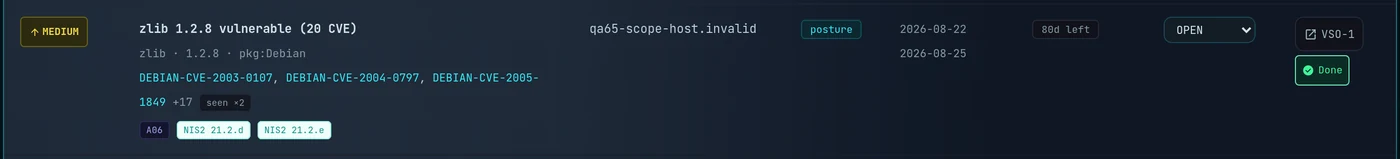
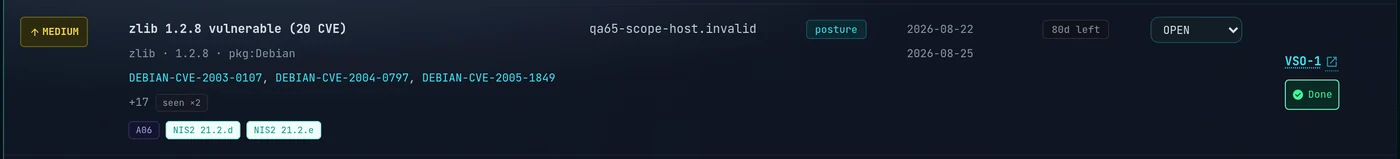
FIX: the ticket column was readable but not usable
Four things the column got wrong once it started carrying state.

A filter. With 164 findings and two tickets, "which ones did we hand
over, and what happened to them" was a scroll. ALL TICKETS joins the
other four dropdowns and separates three questions that look like one:
whether a ticket exists at all, where it got to, and whether anyone has
read it back yet. The last two are not the same thing — "unknown" is the
tracker answering with a state we cannot place, "not read yet" is nobody
having pressed refresh since the ticket was opened — and collapsing them
would hide exactly the rows that need attention. The pairing worth
looking for, "with ticket · done" against a finding still open, is now
two clicks.

The refresh button moved out of the filter row. It sat among the
dropdowns looking like one more control, in the pale outline style of
things that only narrow a view, while it is the one control on that bar
that writes to the database and calls an external service. It now has
its own row under the filters, behind a divider, in the page's primary
button style, with a line saying what it re-reads.

The state label is vertically centred in its cell. The row is as tall as
the findings column needs — title, CVEs, compliance tags — and the ticket
block was pinned to the top of it, reading as though it belonged to the
first line rather than to the finding.

The reference is a link and now looks like one. It was a bordered chip in
[…]

diff --git a/templates/findings.html b/templates/findings.html
@@ -9,7 +9,7 @@
   <link rel="icon" type="image/svg+xml" href="/static/favicon.svg" />
   <!-- Self-hosted fonts (Inter, JetBrains Mono, Material Symbols) -->
   <link href="/static/vendor/fonts/fonts.css" rel="stylesheet" />
-  <link rel="stylesheet" href="/static/vendor/tailwind.css?v=49" />
+  <link rel="stylesheet" href="/static/vendor/tailwind.css?v=50" />
   <style>
     .material-symbols-outlined { font-variation-settings: 'FILL' 1, 'wght' 400, 'GRAD' 0, 'opsz' 24; }
     ::-webkit-scrollbar { width: 6px; height: 6px; }
@@ -24,7 +24,7 @@
     .shader-bg { position: fixed; inset: 0; z-index: -1; width: 100%; height: 100%; background: #ffffff; }
     body { min-height: max(884px, 100dvh); }
   </style>
-  <script src="/static/i18n.js?v=50"></script>
+  <script src="/static/i18n.js?v=51"></script>
 </head>
 
 <body class="bg-white text-on-background font-body-md text-body-md relative antialiased overflow-x-hidden">
@@ -220,21 +220,36 @@
             <option value="21.2.i">21.2.i — Access control &amp; asset mgmt</option>
             <option value="21.2.j">21.2.j — MFA &amp; secured comms</option>
           </select>
+          <select id="fTicket"
+            class="font-code-sm text-[12px] text-slate-700 bg-white border border-slate-200 rounded-lg px-3 py-2 focus:outline-none focus:ring-1 focus:ring-cyan-300">
+            <option value="" data-i18n="find.f_ticket">ALL TICKETS</option>
+            <option value="none" data-i18n="find.f_ticket_none">NO TICKET</option>
+            <option value="any" data-i18n="find.f_ticket_any">WITH TICKET</option>
+            <option value="todo" data-i18n="find.f_ticket_todo">TICKET · TO DO</option>
+            <option value="in_progress" data-i18n="find.f_ticket_doing">TICKET · IN PROGRESS</option>
+            <option value="done" data-i18n="find.f_ticket_done">TICKET · DONE</option>
+            <option value="unknown" data-i18n="find.f_ticket_unknown">TICKET · UNKNOWN</option>
+            <option value="unread" data-i18n="find.f_ticket_unread">TICKET · NOT READ YET</option>
+          </select>
           <div class="relative flex-1 min-w-[220px] max-w-md">
             <span class="material-symbols-outlined absolute left-3 top-1/2 -translate-y-1/2 text-slate-500 text-base">search</span>
             <input id="fSearch" type="text" data-i18n-ph="find.search_ph" placeholder="Search package, CVE, asset…"
               class="w-full font-code-sm text-[12px] text-slate-700 bg-white border border-slate-200 rounded-lg pl-9 pr-3 py-2 focus:outline-none focus:ring-1 focus:ring-cyan-300" />
           </div>
-          <button id="tkRefreshBtn" type="button"
-            class="ml-auto px-3 py-2 rounded-lg border border-slate-200 bg-white text-slate-600 hover:border-cyan-400 hover:text-cyan-700 font-label-caps text-[10px] inline-flex items-center gap-1.5 transition-colors disabled:opacity-50 disabled:cursor-not-allowed"
-            title="">
-            <span id="tkRefreshIcon" class="material-symbols-outlined text-[15px]">sync</span>
-            <span data-i18n="find.tk_refresh">REFRESH TICKET STATUS</span>
-          </button>
-          <span id="tkRefreshMsg" class="font-code-sm text-[11px] text-slate-500"></span>
-          <span id="rowCount" class="font-code-sm text-[11px] text-slate-500 ml-3"></span>
+          <span id="rowCount" class="font-code-sm text-[11px] text-slate-500 ml-auto"></span>
           <!-- Chip filtri attivi (rimovibili) -->
           <div id="activeChips" class="w-full flex flex-wrap items-center gap-2 empty:hidden"></div>
+          <!-- Azione sulla colonna TICKET: sta sotto i filtri perche' non
+               filtra nulla — riscrive dati — e va distinta da essi. -->
+          <div class="w-full flex flex-wrap items-center gap-3 pt-2 border-t border-slate-200/60">
+            <button id="tkRefreshBtn" type="button"
+              class="bg-slate-900 text-white hover:bg-slate-800 px-5 py-2.5 rounded-lg font-label-caps text-label-caps transition-all flex items-center gap-2 shadow-lg shadow-slate-900/10 disabled:opacity-40 disabled:cursor-not-allowed">
+              <span id="tkRefreshIcon" class="material-symbols-outlined text-sm text-cyan-400">sync</span>
+              <span data-i18n="find.tk_refresh">REFRESH TICKET STATUS</span>
+            </button>
+            <span id="tkRefreshMsg" class="font-code-sm text-[12px] text-slate-500"></span>
+            <span class="font-code-sm text-[11px] text-slate-400 ml-auto" data-i18n="find.tk_hint">Re-reads every linked ticket from GitHub / Jira</span>
+          </div>
         </section>
 
         <!-- Table -->
@@ -333,21 +348,27 @@
       function ticketStatusLabel(r) {
         if (!r.ticket_status && !r.ticket_state) {
           // Mai riletto: dirlo, invece di lasciare la cella muta come prima.
-          return `<div class="mt-1 text-[10px] text-slate-400 font-code-sm">${esc(tr('find.tk_never'))}</div>`;
+          return `<span class="text-[10px] text-slate-400 font-code-sm">${esc(tr('find.tk_never'))}</span>`;
         }
         const st = r.ticket_state || 'unknown';
         const when = r.ticket_checked_at
           ? ` title="${esc(tr('find.tk_checked', { t: new Date(r.ticket_checked_at).toLocaleString() }))}"` : '';
-        return `<div class="mt-1"${when}><span class="px-1.5 py-0.5 rounded border ${TK_STATE_STYLE[st] || TK_STATE_STYLE.unknown} text-[10px] font-code-sm inline-flex items-center gap-1">
-          <span class="material-symbols-outlined text-[12px]">${TK_STATE_ICON[st] || TK_STATE_ICON.unknown}</span>${esc(r.ticket_status || tr('find.tk_state_' + st))}</span></div>`;
+        return `<span class="px-1.5 py-0.5 rounded border ${TK_STATE_STYLE[st] || TK_STATE_STYLE.unknown} text-[10px] font-code-sm inline-flex items-center gap-1"${when}>
+          <span class="material-symbols-outlined text-[12px]">${TK_STATE_ICON[st] || TK_STATE_ICON.unknown}</span>${esc(r.ticket_status || tr('find.tk_state_' + st))}</span>`;
       }
 
       function ticketCell(r) {
         if (r.ticket_url)
-          return `<a href="${esc(r.ticket_url)}" target="_blank" rel="noopener"
-            class="px-2 py-1 rounded-lg border border-slate-200 bg-white text-slate-600 hover:border-cyan-400 hover:text-cyan-700 text-[11px] font-code-sm inline-flex items-center gap-1">
-            <span class="material-symbols-outlined text-[13px]">open_in_new</span>${esc(r.ticket_ref || 'ticket')}</a>`
-            + ticketStatusLabel(r);
+          // Il riferimento e' un link e deve sembrarlo: colore d'accento,
+          // sottolineatura, icona di uscita. Il chip bordato di prima si
+          // leggeva come un'etichetta, e nessuno prova a cliccare un'etichetta.
+          return `<div class="flex flex-col items-start gap-1.5 justify-center min-h-[3.25rem]">
+            <a href="${esc(r.ticket_url)}" target="_blank" rel="noopener"
+              title="${esc(tr('find.tk_open', { ref: r.ticket_ref || 'ticket' }))}"
+              class="text-cyan-700 hover:text-cyan-900 underline decoration-cyan-400 decoration-dotted underline-offset-2 hover:decoration-solid text-[12px] font-code-sm font-semibold inline-flex items-center gap-1 group">
+              ${esc(r.ticket_ref || 'ticket')}<span class="material-symbols-outlined text-[13px] opacity-60 group-hover:opacity-100">open_in_new</span></a>
+            ${ticketStatusLabel(r)}
+          </div>`;
         return `<button data-fid="${r.id}" class="ticketBtn px-2 py-1 rounded-lg border border-slate-200 bg-white hover:border-cyan-400 text-slate-500 hover:text-cyan-600 text-[11px] font-label-caps inline-flex items-center gap-1"
           title="${esc(tr('find.ticket_create'))}"><span class="material-symbols-outlined text-[13px]">add</span>${esc(tr('find.ticket_btn'))}</button>`;
       }
@@ -367,11 +388,14 @@
           ['fSev', tr('find.f_sev_chip') || 'Severity'],
           ['fSource', tr('find.f_source_chip') || 'Source'],
           ['fNis2', 'NIS2'],
+          ['fTicket', tr('find.f_ticket_chip') || 'Ticket'],
           ['fSearch', tr('find.f_search_chip') || 'Search'],
         ].filter(([id]) => ($(id).value || '').trim() !== '');
         wrap.innerHTML = active.map(([id, label]) => {
           const el = $(id);
-          const val = id === 'fNis2' ? (el.options[el.selectedIndex]?.value || el.value) : el.value;
+          const val = (id === 'fNis2' || id === 'fTicket')
+            ? (el.options[el.selectedIndex]?.textContent || el.value).trim()
+            : el.value;
           return `<span class="inline-flex items-center gap-1 pl-2.5 pr-1 py-1 rounded-full bg-cyan-50 border border-cyan-200 text-cyan-700 font-code-sm text-[11px]">`
             + `<span class="font-label-caps text-[9px] tracking-wider text-cyan-500">${esc(label)}</span>`
             + `<span>${esc(val)}</span>`
@@ -386,14 +410,30 @@
         }));
         const clearAll = $('clearAllChips');
         if (clearAll) clearAll.addEventListener('click', () => {
-          ['fStatus', 'fSev', 'fSource', 'fNis2', 'fSearch'].forEach((id) => { $(id).value = ''; });
+          ['fStatus', 'fSev', 'fSource', 'fNis2', 'fTicket', 'fSearch'].forEach((id) => { $(id).value = ''; });
           render();
         });
+      }
+
+      // Il filtro ticket lavora su tre domande diverse, non su un solo campo:
+      // se un ticket esista, a che punto sia, e se sia mai stato riletto.
+      // 'unread' e' distinto da 'unknown': il primo vuol dire che nessuno ha
+      // ancora premuto AGGIORNA, il secondo che il tracker ha risposto con
+      // uno stato che non sappiamo collocare.
+      function ticketMatch(r, f) {
+        if (!f) return true;
+        const has = !!(r.ticket_ref || r.ticket_url);
+        if (f === 'none') return !has;
+        if (f === 'any') return has;
+        if (!has) return false;
+        if (f === 'unread') return !r.ticket_state;
+        return (r.ticket_state || '') === f;
       }
 
       function render() {
         const st = $('fStatus').value, sev = $('fSev').value,
           src = $('fSource').value, nis2 = $('fNis2').value,
+          tk = $('fTicket').value,
           q = $('fSearch').value.trim().toLowerCase();
         renderChips();
         const rows = ALL.filter((r) =>
@@ -401,6 +441,7 @@
           (!sev || (r.severity || '').toUpperCase() === sev) &&
           (!src || (r.source || '').includes(src)) &&
           (!nis2 || ((r.compliance || {}).nis2 || []).some((n) => n.startsWith(nis2 + ' '))) &&
+          ticketMatch(r, tk) &&
           (!q || JSON.stringify(r).toLowerCase().includes(q)));
         $('rowCount').textContent = rows.length + ' / ' + ALL.length;
         $('emptyMsg').classList.toggle('hidden', rows.length > 0);
@@ -433,7 +474,7 @@
             <td class="px-4 py-3 whitespace-nowrap text-[11px] text-slate-500" data-label="${esc(tr('find.th_seen'))}">${fmtDate(r.first_seen)}<br/>${fmtDate(r.last_seen)}</td>
             <td class="px-4 py-3 whitespace-nowrap" data-label="${esc(tr('find.th_sla'))}">${slaBadge(r)}</td>
             <td class="px-4 py-3 whitespace-nowrap" data-label="${esc(tr('find.th_status'))}">${statusSelect(r)}</td>
-            <td class="px-4 py-3 whitespace-nowrap" data-label="${esc(tr('find.th_ticket'))}">${ticketCell(r)}</td>
+            <td class="px-4 py-3 whitespace-nowrap align-middle" data-label="${esc(tr('find.th_ticket'))}">${ticketCell(r)}</td>
           </tr>`;
         }).join('');
         document.querySelectorAll('.ticketBtn').forEach((btn) => {
@@ -622,7 +663,7 @@
         }
       });
 
-      ['fStatus', 'fSev', 'fSource', 'fNis2'].forEach((id) => $(id).addEventListener('change', render));
+      ['fStatus', 'fSev', 'fSource', 'fNis2', 'fTicket'].forEach((id) => $(id).addEventListener('change', render));
       $('fSearch').addEventListener('input', render);
       window.addEventListener('langchange', render);
 

diff --git a/static/manuale_uso/07-findings.html b/static/manuale_uso/07-findings.html
@@ -389,12 +389,19 @@
         <figure>
           <img src="img/findings-filters.webp" alt="Findings filter row" loading="lazy" />
           <figcaption>
-            <span lang="en"><b>Filters</b> — status, severity, source and NIS2 measure, plus free-text search.</span>
-            <span lang="it"><b>Filtri</b> — stato, severità, sorgente e misura NIS2, più ricerca in testo libero.</span>
+            <span lang="en"><b>Filters</b> — status, severity, source, NIS2 measure and ticket, plus free-text search. The
+              button that re-reads the ticket states sits under them, on its own row: it does not filter anything, it
+              rewrites data.</span>
+            <span lang="it"><b>Filtri</b> — stato, severità, sorgente, misura NIS2 e ticket, più ricerca in testo libero. Il
+              pulsante che rilegge gli stati dei ticket sta sotto, su una riga sua: non filtra nulla, riscrive dati.</span>
           </figcaption>
         </figure>
         <ul class="tight">
-          <li><span lang="en"><strong>ALL STATUSES</strong> · <strong>ALL SEVERITIES</strong> · <strong>ALL SOURCES</strong> · <strong>ALL NIS2 MEASURES</strong> — four dropdowns that combine.</span><span lang="it"><strong>ALL STATUSES</strong> · <strong>ALL SEVERITIES</strong> · <strong>ALL SOURCES</strong> · <strong>ALL NIS2 MEASURES</strong> — quattro menu che si combinano.</span></li>
+          <li><span lang="en"><strong>ALL STATUSES</strong> · <strong>ALL SEVERITIES</strong> · <strong>ALL SOURCES</strong> · <strong>ALL NIS2 MEASURES</strong> · <strong>ALL TICKETS</strong> — five dropdowns that combine.</span><span lang="it"><strong>ALL STATUSES</strong> · <strong>ALL SEVERITIES</strong> · <strong>ALL SOURCES</strong> · <strong>ALL NIS2 MEASURES</strong> · <strong>TUTTI I TICKET</strong> — cinque menu che si combinano.</span></li>
+          <li>
+            <span lang="en"><strong>The ticket filter</strong> answers three different questions, not one: whether a ticket exists (<em>no ticket</em> / <em>with ticket</em>), where it got to (<em>to do</em>, <em>in progress</em>, <em>done</em>, <em>unknown</em>), and whether anyone has read it back yet (<em>not read yet</em>). The last two are not the same: <em>unknown</em> means the tracker answered with a state that cannot be placed, <em>not read yet</em> that nobody has pressed REFRESH since the ticket was opened. <em>With ticket · done</em> next to a finding still open is the pair worth looking for.</span>
+            <span lang="it"><strong>Il filtro ticket</strong> risponde a tre domande diverse, non a una: se un ticket esista (<em>senza ticket</em> / <em>con ticket</em>), a che punto sia (<em>da fare</em>, <em>in corso</em>, <em>completato</em>, <em>sconosciuto</em>) e se qualcuno lo abbia già riletto (<em>non ancora letto</em>). Le ultime due non coincidono: <em>sconosciuto</em> significa che il tracker ha risposto con uno stato non collocabile, <em>non ancora letto</em> che nessuno ha premuto AGGIORNA da quando il ticket è stato aperto. <em>Con ticket · completato</em> accanto a un finding ancora aperto è la coppia da cercare.</span>
+          </li>
           <li><span lang="en"><strong>Search</strong> — <em>“Search package, CVE, asset…”</em>, applied instantly.</span><span lang="it"><strong>Ricerca</strong> — <em>«Search package, CVE, asset…»</em>, applicata istantaneamente.</span></li>
           <li><span lang="en"><strong>Active chips</strong> — every applied filter becomes a removable chip labelled <em>Status</em>, <em>Severity</em>, <em>Source</em> or <em>Search</em>, with <span class="badge b-acc">CLEAR ALL</span> to reset everything. A live row count sits beside them, so you always know how much you are looking at.</span><span lang="it"><strong>Chip attivi</strong> — ogni filtro applicato diventa un chip rimovibile etichettato <em>Status</em>, <em>Severity</em>, <em>Source</em> o <em>Search</em>, con <span class="badge b-acc">CLEAR ALL</span> per azzerare tutto. Accanto c'è un conteggio righe live, così sai sempre quanto stai guardando.</span></li>
         </ul>
@@ -440,8 +447,8 @@
               <tr>
                 <td><span class="badge b-acc">REFRESH TICKET STATUS</span></td>
                 <td>
-                  <span lang="en">One button for the whole table, above it on the right. It re-reads every ticket you can see from the tracker and writes the state back on the findings — <code>POST /api/findings/tickets/refresh</code>. It exists because the state is moved by people in <em>their</em> tracker, not here: anything this application remembered on its own would be a copy that ages in silence. On Jira it is a single JQL call for the whole set; on GitHub one call per issue, which is the limit of that API rather than a choice. It reports how many tickets were checked and <b>how many changed</b>, and writes nothing when nothing moved. Scoped roles refresh only the tickets of findings inside their own cone. Recorded in the audit ledger as <code>finding.ticket_refresh</code>.</span>
-                  <span lang="it">Un pulsante solo per l'intera tabella, sopra a destra. Rilegge dal tracker tutti i ticket che puoi vedere e riscrive lo stato sui finding — <code>POST /api/findings/tickets/refresh</code>. Esiste perché lo stato lo muovono le persone nel <em>loro</em> tracker, non qui: qualunque valore ricordato per conto proprio sarebbe una copia che invecchia in silenzio. Su Jira è un'unica chiamata JQL per tutto l'insieme; su GitHub una per issue, che è il limite di quell'API e non una scelta. Riporta quanti ticket ha controllato e <b>quanti sono cambiati</b>, e non scrive nulla se nulla si è mosso. I ruoli scoped aggiornano solo i ticket dei finding nel proprio cono. Registrato nel registro di audit come <code>finding.ticket_refresh</code>.</span>
+                  <span lang="en">One button for the whole table, on its own row under the filters — it does not filter anything, it rewrites data, and it is placed and weighted to say so. It re-reads every ticket you can see from the tracker and writes the state back on the findings — <code>POST /api/findings/tickets/refresh</code>. It exists because the state is moved by people in <em>their</em> tracker, not here: anything this application remembered on its own would be a copy that ages in silence. On Jira it is a single JQL call for the whole set; on GitHub one call per issue, which is the limit of that API rather than a choice. It reports how many tickets were checked and <b>how many changed</b>, and writes nothing when nothing moved. Scoped roles refresh only the tickets of findings inside their own cone. Recorded in the audit ledger as <code>finding.ticket_refresh</code>.</span>
+                  <span lang="it">Un pulsante solo per l'intera tabella, su una riga sua sotto i filtri — non filtra nulla, riscrive dati, ed è posizionato e pesato per dirlo. Rilegge dal tracker tutti i ticket che puoi vedere e riscrive lo stato sui finding — <code>POST /api/findings/tickets/refresh</code>. Esiste perché lo stato lo muovono le persone nel <em>loro</em> tracker, non qui: qualunque valore ricordato per conto proprio sarebbe una copia che invecchia in silenzio. Su Jira è un'unica chiamata JQL per tutto l'insieme; su GitHub una per issue, che è il limite di quell'API e non una scelta. Riporta quanti ticket ha controllato e <b>quanti sono cambiati</b>, e non scrive nulla se nulla si è mosso. I ruoli scoped aggiornano solo i ticket dei finding nel proprio cono. Registrato nel registro di audit come <code>finding.ticket_refresh</code>.</span>
                 </td>
               </tr>
             </tbody>

diff --git a/static/i18n.js b/static/i18n.js
@@ -636,6 +636,17 @@
       'find.th_ticket': 'TICKET',
       'find.ticket_btn': 'CREATE',
       'find.tk_refresh': 'REFRESH TICKET STATUS',
+      'find.f_ticket': 'ALL TICKETS',
+      'find.f_ticket_none': 'NO TICKET',
+      'find.f_ticket_any': 'WITH TICKET',
+      'find.f_ticket_todo': 'TICKET · TO DO',
+      'find.f_ticket_doing': 'TICKET · IN PROGRESS',
+      'find.f_ticket_done': 'TICKET · DONE',
+      'find.f_ticket_unknown': 'TICKET · UNKNOWN',
+      'find.f_ticket_unread': 'TICKET · NOT READ YET',
+      'find.f_ticket_chip': 'Ticket',
+      'find.tk_hint': 'Re-reads every linked ticket from GitHub / Jira',
+      'find.tk_open': 'Open {ref} in the tracker',
       'find.tk_refreshing': 'reading the tracker…',
       'find.tk_done': '{n} ticket(s) checked · {u} changed',
       'find.tk_none': 'No ticket has been opened yet.',
@@ -1482,6 +1493,17 @@
       'find.th_ticket': 'TICKET',
       'find.ticket_btn': 'CREA',
       'find.tk_refresh': 'AGGIORNA STATO TICKET',
+      'find.f_ticket': 'TUTTI I TICKET',
+      'find.f_ticket_none': 'SENZA TICKET',
+      'find.f_ticket_any': 'CON TICKET',
+      'find.f_ticket_todo': 'TICKET · DA FARE',
+      'find.f_ticket_doing': 'TICKET · IN CORSO',
+      'find.f_ticket_done': 'TICKET · COMPLETATO',
+      'find.f_ticket_unknown': 'TICKET · SCONOSCIUTO',
+      'find.f_ticket_unread': 'TICKET · NON ANCORA LETTO',
+      'find.f_ticket_chip': 'Ticket',
+      'find.tk_hint': 'Rilegge da GitHub / Jira tutti i ticket collegati',
+      'find.tk_open': 'Apri {ref} nel tracker',
       'find.tk_refreshing': 'lettura dal tracker…',
       'find.tk_done': '{n} ticket controllati · {u} cambiati',
       'find.tk_none': 'Nessun ticket è ancora stato aperto.',

diff --git a/templates/sbom.html b/templates/sbom.html
@@ -7,7 +7,7 @@
   <link rel="icon" type="image/svg+xml" href="/static/favicon.svg" />
   <!-- Self-hosted fonts (Inter, JetBrains Mono, Material Symbols) -->
   <link href="/static/vendor/fonts/fonts.css" rel="stylesheet" />
-  <link rel="stylesheet" href="/static/vendor/tailwind.css?v=49" />
+  <link rel="stylesheet" href="/static/vendor/tailwind.css?v=50" />
   <script src="/static/vendor/xlsx.full.min.js"></script>
   <style>
     .material-symbols-outlined { font-variation-settings: 'FILL' 1, 'wght' 400, 'GRAD' 0, 'opsz' 24; }
@@ -25,7 +25,7 @@
     .neural-panel:has(.tip-wrap:hover),
     .neural-panel:has(.tip-wrap:focus-within) { z-index: 40; }
   </style>
-  <script src="/static/i18n.js?v=50"></script>
+  <script src="/static/i18n.js?v=51"></script>
 </head>
 <body class="bg-white text-on-background font-body-md text-body-md relative antialiased overflow-x-hidden">
   <div class="shader-bg">

diff --git a/templates/risk.html b/templates/risk.html
@@ -9,7 +9,7 @@
   <link rel="icon" type="image/svg+xml" href="/static/favicon.svg" />
   <!-- Self-hosted fonts (Inter, JetBrains Mono, Material Symbols) -->
   <link href="/static/vendor/fonts/fonts.css" rel="stylesheet" />
-  <link rel="stylesheet" href="/static/vendor/tailwind.css?v=49" />
+  <link rel="stylesheet" href="/static/vendor/tailwind.css?v=50" />
   <script src="/static/vendor/chart.umd.min.js"></script>
   <style>
     .material-symbols-outlined { font-variation-settings: 'FILL' 1, 'wght' 400, 'GRAD' 0, 'opsz' 24; }
@@ -26,7 +26,7 @@
     .shader-bg { position: fixed; inset: 0; z-index: -1; width: 100%; height: 100%; background: #ffffff; }
     body { min-height: max(884px, 100dvh); }
   </style>
-  <script src="/static/i18n.js?v=50"></script>
+  <script src="/static/i18n.js?v=51"></script>
   <script src="/static/tableutils.js"></script>
 </head>
 

diff --git a/templates/activate.html b/templates/activate.html
@@ -8,12 +8,12 @@
   <link rel="icon" type="image/svg+xml" href="/static/favicon.svg" />
   <!-- Self-hosted fonts (Inter, JetBrains Mono, Material Symbols) -->
   <link href="/static/vendor/fonts/fonts.css" rel="stylesheet" />
-  <link rel="stylesheet" href="/static/vendor/tailwind.css?v=49" />
+  <link rel="stylesheet" href="/static/vendor/tailwind.css?v=50" />
   <!-- Stesso guscio della login: invito, attivazione e primo accesso sono un
        unico percorso, e cambiare ambiente a meta' strada lo farebbe sembrare
        un altro sito proprio mentre si sceglie una password. -->
   <link rel="stylesheet" href="/static/vfa-field.css?v=6" />
-  <script src="/static/i18n.js?v=50"></script>
+  <script src="/static/i18n.js?v=51"></script>
   <script src="/static/vfa-field.js?v=2" defer></script>
   <script src="/static/vfa-auth.js?v=3" defer></script>
 </head>

diff --git a/templates/admin.html b/templates/admin.html
@@ -8,7 +8,7 @@
   <link rel="icon" type="image/svg+xml" href="/static/favicon.svg" />
   <!-- Self-hosted fonts (Inter, JetBrains Mono, Material Symbols) -->
   <link href="/static/vendor/fonts/fonts.css" rel="stylesheet" />
-  <link rel="stylesheet" href="/static/vendor/tailwind.css?v=49" />
+  <link rel="stylesheet" href="/static/vendor/tailwind.css?v=50" />
   <style>
     .material-symbols-outlined { font-variation-settings: 'FILL' 1, 'wght' 400, 'GRAD' 0, 'opsz' 24; }
     ::-webkit-scrollbar { width: 6px; height: 6px; }
@@ -24,7 +24,7 @@
     .shader-bg { position: fixed; inset: 0; z-index: -1; width: 100%; height: 100%; background: #ffffff; }
     body { min-height: max(884px, 100dvh); }
   </style>
-  <script src="/static/i18n.js?v=50"></script>
+  <script src="/static/i18n.js?v=51"></script>
 </head>
 
 <body

diff --git a/templates/intel.html b/templates/intel.html
@@ -9,7 +9,7 @@
   <link rel="icon" type="image/svg+xml" href="/static/favicon.svg" />
   <!-- Self-hosted fonts (Inter, JetBrains Mono, Material Symbols) -->
   <link href="/static/vendor/fonts/fonts.css" rel="stylesheet" />
-  <link rel="stylesheet" href="/static/vendor/tailwind.css?v=49" />
+  <link rel="stylesheet" href="/static/vendor/tailwind.css?v=50" />
   <script src="/static/vendor/chart.umd.min.js"></script>
   <style>
     .material-symbols-outlined {
@@ -173,7 +173,7 @@
       to { transform: translateX(0); opacity: 1; }
     }
   </style>
-  <script src="/static/i18n.js?v=50"></script>
+  <script src="/static/i18n.js?v=51"></script>
   <script src="/static/vendor/xlsx.full.min.js"></script>
   <script src="/static/tableutils.js"></script>
   <script src="/static/vendor/d3.min.js"></script>

diff --git a/templates/change_password.html b/templates/change_password.html
@@ -8,11 +8,11 @@
   <link rel="icon" type="image/svg+xml" href="/static/favicon.svg" />
   <!-- Self-hosted fonts (Inter, JetBrains Mono, Material Symbols) -->
   <link href="/static/vendor/fonts/fonts.css" rel="stylesheet" />
-  <link rel="stylesheet" href="/static/vendor/tailwind.css?v=49" />
+  <link rel="stylesheet" href="/static/vendor/tailwind.css?v=50" />
   <!-- Stesso guscio della login: al primo accesso questa pagina arriva subito
        dopo, e il percorso deve restare un unico ambiente. -->
   <link rel="stylesheet" href="/static/vfa-field.css?v=6" />
-  <script src="/static/i18n.js?v=50"></script>
+  <script src="/static/i18n.js?v=51"></script>
   <script src="/static/vfa-field.js?v=2" defer></script>
   <script src="/static/vfa-auth.js?v=3" defer></script>
 </head>

diff --git a/templates/audit.html b/templates/audit.html
@@ -9,7 +9,7 @@
   <link rel="icon" type="image/svg+xml" href="/static/favicon.svg" />
   <!-- Self-hosted fonts (Inter, JetBrains Mono, Material Symbols) -->
   <link href="/static/vendor/fonts/fonts.css" rel="stylesheet" />
-  <link rel="stylesheet" href="/static/vendor/tailwind.css?v=49" />
+  <link rel="stylesheet" href="/static/vendor/tailwind.css?v=50" />
   <style>
     .material-symbols-outlined {
       font-variation-settings: 'FILL' 1, 'wght' 400, 'GRAD' 0, 'opsz' 24;
@@ -121,7 +121,7 @@
       min-height: max(884px, 100dvh);
     }
   </style>
-  <script src="/static/i18n.js?v=50"></script>
+  <script src="/static/i18n.js?v=51"></script>
   <script src="/static/vendor/xlsx.full.min.js"></script>
   <script src="/static/tableutils.js"></script>
 </head>

diff --git a/templates/assets.html b/templates/assets.html
@@ -9,7 +9,7 @@
   <link rel="icon" type="image/svg+xml" href="/static/favicon.svg" />
   <!-- Self-hosted fonts (Inter, JetBrains Mono, Material Symbols) -->
   <link href="/static/vendor/fonts/fonts.css" rel="stylesheet" />
-  <link rel="stylesheet" href="/static/vendor/tailwind.css?v=49" />
+  <link rel="stylesheet" href="/static/vendor/tailwind.css?v=50" />
   <style>
     .material-symbols-outlined {
       font-variation-settings: 'FILL' 1, 'wght' 400, 'GRAD' 0, 'opsz' 24;
@@ -59,7 +59,7 @@
       min-height: max(884px, 100dvh);
     }
   </style>
-  <script src="/static/i18n.js?v=50"></script>
+  <script src="/static/i18n.js?v=51"></script>
   <script src="/static/vendor/xlsx.full.min.js"></script>
   <script src="/static/tableutils.js"></script>
 </head>

diff --git a/templates/login.html b/templates/login.html
@@ -8,10 +8,10 @@
   <link rel="icon" type="image/svg+xml" href="/static/favicon.svg" />
   <!-- Self-hosted fonts (Inter, JetBrains Mono, Material Symbols) -->
   <link href="/static/vendor/fonts/fonts.css" rel="stylesheet" />
-  <link rel="stylesheet" href="/static/vendor/tailwind.css?v=49" />
+  <link rel="stylesheet" href="/static/vendor/tailwind.css?v=50" />
   <!-- DEEP FIELD: guscio comune alle schermate di accesso (vedi vfa-field.css) -->
   <link rel="stylesheet" href="/static/vfa-field.css?v=6" />
-  <script src="/static/i18n.js?v=50"></script>
+  <script src="/static/i18n.js?v=51"></script>
   <script src="/static/vfa-field.js?v=2" defer></script>
   <script src="/static/vfa-auth.js?v=3" defer></script>
 </head>
